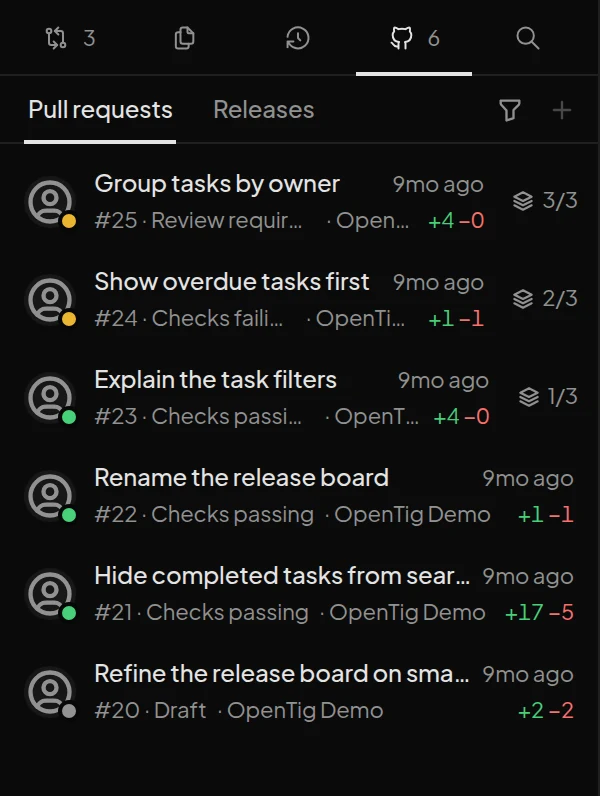
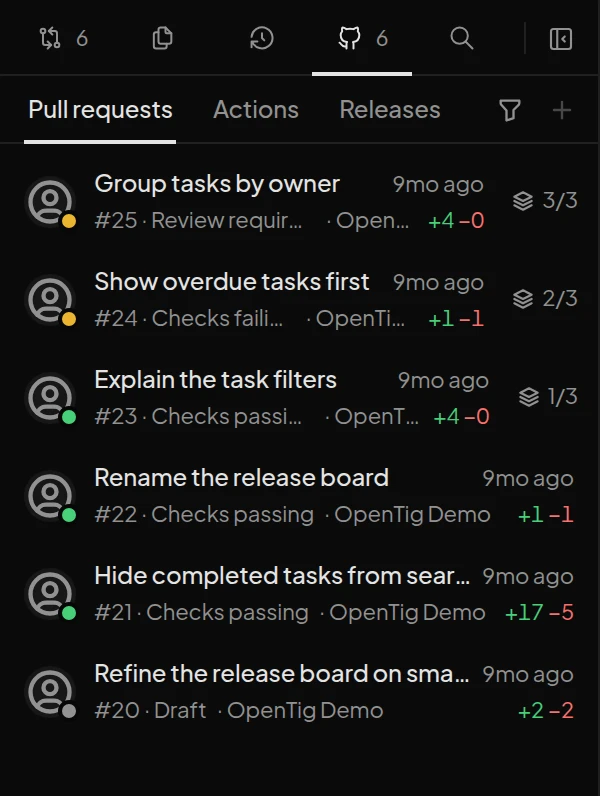
feat(website): show Actions and releases on the landing page and fix the demo's runs
The GitHub section covers merging, releases and workflow runs with new captures,
and every screenshot shows the current tabs and sidebar. Demo runs now match
their pull requests and the sample's CI workflow.

diff --git a/website/demo/actions.ts b/website/demo/actions.ts
@@ -1,92 +1,155 @@
-import type { ActionRunDetails, ActionRunJob, ActionRunPage, ActionRunSummary, RunnableWorkflowList, WorkflowTriggers } from '../../src/shared/contracts';
+import type { ActionRunDetails, ActionRunGraphNode, ActionRunJob, ActionRunPage, ActionRunSummary, RunnableWorkflowList, WorkflowTriggers } from '../../src/shared/contracts';
+import { sampleDate } from './model.ts';
+import { demoPulls } from './pulls.ts';
 
-/** Sample GitHub Actions runs for the demo, ending a little before it opens. */
-const minutesAgo = (minutes: number) => new Date(Date.UTC(2026, 0, 15, 12, 0) - minutes * 60_000).toISOString();
+/**
+ * Sample GitHub Actions runs for the demo. They follow the sample's workflow files in
+ * `.github/workflows/` and its pull requests: each PR's run has the jobs and results of its checks.
+ */
+const sampleTime = Date.parse(sampleDate);
+const minutesAgo = (minutes: number) => new Date(sampleTime - minutes * 60_000).toISOString();
+// The running run started a few minutes before the page opened, so its duration counts up from there.
+const liveTime = Date.now();
+const liveMinutesAgo = (minutes: number) => new Date(liveTime - minutes * 60_000).toISOString();
 // The sample repository's published commit, so a run's commit opens in OpenTig too.
-const sha = 'a'.repeat(40);
+const mainSha = 'a'.repeat(40);
 
 const triggers: Record<string, WorkflowTriggers> = {
   '.github/workflows/prepare-release.yml': { events: ['workflow_dispatch'], inputs: [
     { name: 'version', description: 'Version without the leading v, such as 0.5.0', required: true, default: null, type: 'string', options: [] },
-    { name: 'prerelease', description: null, required: false, default: 'false', type: 'boolean', options: [] },
+    { name: 'prerelease', description: 'Mark the draft as a pre-release', required: false, default: 'false', type: 'boolean', options: [] },
   ] },
-  '.github/workflows/ci.yml': { events: ['push', 'pull_request'], inputs: null },
+  '.github/workflows/ci.yml': { events: ['pull_request', 'push'], inputs: null },
   '.github/workflows/nightly.yml': { events: ['schedule', 'workflow_dispatch'], inputs: [
-    { name: 'suite', description: null, required: false, default: 'full', type: 'choice', options: ['full', 'smoke'] },
+    { name: 'suite', description: 'Which tests to run', required: false, default: 'full', type: 'choice', options: ['full', 'smoke'] },
   ] },
 };
+
+const workflows = [
+  { id: 1, name: 'Prepare release', path: '.github/workflows/prepare-release.yml' },
+  { id: 2, name: 'CI', path: '.github/workflows/ci.yml' },
+  { id: 3, name: 'Nightly checks', path: '.github/workflows/nightly.yml' },
+];
+
+// GitHub's branches: the default one, then the open pull requests' branches.
+const branches = ['main', ...demoPulls.list(['OPEN']).map((pr) => pr.headRefName).sort()];
 
 const runnable: RunnableWorkflowList = {
   defaultBranch: 'main',
   viewerCanWrite: true,
-  branches: ['main', 'release-board'],
-  workflows: [
-    { id: 1, name: 'Prepare release', path: '.github/workflows/prepare-release.yml', triggers: triggers['.github/workflows/prepare-release.yml']! },
-    { id: 2, name: 'CI', path: '.github/workflows/ci.yml', triggers: triggers['.github/workflows/ci.yml']! },
-    { id: 3, name: 'Nightly checks', path: '.github/workflows/nightly.yml', triggers: triggers['.github/workflows/nightly.yml']! },
-  ],
+  branches,
+  workflows: workflows.map((workflow) => ({ ...workflow, triggers: triggers[workflow.path]! })),
 };
 
-function summary(id: number, workflowId: number, workflowName: string, title: string, conclusion: string | null, started: number, minutes: number, event = 'push', branch = 'main', login = 'opentig-demo', pullRequestNumber: number | null = null): ActionRunSummary {
-  return {
-    actor: { login, avatarUrl: null }, pullRequestNumber,
-    id, number: id, attempt: 1, title, workflowId, workflowName, status: conclusion ? 'completed' : 'in_progress', conclusion, event, branch, headSha: sha,
-    url: '', createdAt: minutesAgo(started), startedAt: minutesAgo(started), updatedAt: minutesAgo(conclusion ? started - minutes : 0),
-  };
-}
-const runs: ActionRunSummary[] = [
-  summary(40, 2, 'CI', 'Hide completed tasks from search results', null, 3, 0),
-  summary(30, 1, 'Prepare release', 'Prepare release', 'success', 50, 2, 'workflow_dispatch'),
-  summary(39, 2, 'CI', 'Document the local test command', 'success', 95, 6),
-  summary(12, 3, 'Nightly checks', 'Nightly checks', 'success', 720, 9, 'schedule', 'main', 'github-actions[bot]'),
-  summary(38, 2, 'CI', 'Refine the release board on small screens', 'failure', 1500, 5, 'pull_request', 'release-board', 'opentig-demo', 21),
-  summary(29, 1, 'Prepare release', 'Prepare release', 'failure', 2900, 1, 'workflow_dispatch'),
-];
+type Result = 'success' | 'failure' | 'skipped' | null;
+type SampleRun = {
+  summary: ActionRunSummary;
+  jobs: ActionRunJob[];
+  graph: ActionRunGraphNode[];
+};
 
-function job(id: number, name: string, conclusion: string | null, started: number, minutes: number, steps: [string, string | null][]): ActionRunJob {
+/** A job's steps as GitHub names them: setup, then each step of the workflow file, then cleanup. */
+function job(id: number, name: string, result: Result, started: string | null, finished: string | null, steps: [string, Result][]): ActionRunJob {
+  const running = steps.findIndex(([, value]) => value === null);
   return {
-    id, name, status: conclusion ? 'completed' : started ? 'in_progress' : 'queued', conclusion,
-    startedAt: started ? minutesAgo(started) : null, completedAt: conclusion ? minutesAgo(started - minutes) : null, url: null, runnerName: started ? 'GitHub Actions 7' : null,
-    steps: steps.map(([stepName, stepConclusion], index) => ({
-      number: index + 1, name: stepName, status: stepConclusion ? 'completed' : index === steps.findIndex(([, value]) => !value) && started ? 'in_progress' : 'queued',
-      conclusion: stepConclusion, startedAt: stepConclusion && started ? minutesAgo(started) : null, completedAt: stepConclusion && started ? minutesAgo(started - 0.4) : null,
+    id, name, status: result ? 'completed' : started ? 'in_progress' : 'queued', conclusion: result,
+    startedAt: result === 'skipped' ? null : started, completedAt: result ? finished : null, url: null, runnerName: started && result !== 'skipped' ? 'GitHub Actions 7' : null,
+    steps: result === 'skipped' ? [] : steps.map(([stepName, stepResult], index) => ({
+      number: index + 1, name: stepName,
+      status: stepResult ? 'completed' : index === running && started ? 'in_progress' : 'queued',
+      conclusion: stepResult,
+      startedAt: stepResult || (index === running && started) ? started : null,
+      completedAt: stepResult ? finished ?? started : null,
     })),
   };
 }
-const setup: [string, string | null][] = [['Set up job', 'success'], ['Check out', 'success'], ['Install dependencies', 'success']];
-const ciJobs = (running: boolean, failing: boolean): ActionRunJob[] => [
-  job(1, 'changes', 'success', 3, 0.2, [['Set up job', 'success'], ['Decide what changed', 'success']]),
-  job(2, 'test (ubuntu)', running ? null : 'success', 2.8, 2, [...setup, ['Run tests', running ? null : 'success']]),
-  job(3, 'test (windows)', running ? null : failing ? 'failure' : 'success', 2.8, 3, [...setup, ['Run tests', running ? null : failing ? 'failure' : 'success']]),
-  job(4, 'lint', 'success', 2.8, 1, [...setup, ['Lint', 'success']]),
-  ...(running ? [] : [job(5, 'build', failing ? 'skipped' : 'success', 0.6, 1, [...setup, ['Build', failing ? 'skipped' : 'success']])]),
-];
-const ciGraph = (jobs: ActionRunJob[]) => [
-  { id: 'changes', name: 'changes', needs: [], jobIds: [1] },
-  { id: 'test', name: 'test', needs: ['changes'], jobIds: [2, 3] },
-  { id: 'lint', name: 'lint', needs: ['changes'], jobIds: [4] },
-  { id: 'build', name: 'build', needs: ['test', 'lint'], jobIds: jobs.some((item) => item.id === 5) ? [5] : [] },
-];
 
-function details(run: ActionRunSummary): ActionRunDetails {
-  const base = { ...run, path: runnable.workflows.find((workflow) => workflow.id === run.workflowId)?.path ?? null, jobsTruncated: false, graphSource: 'workflow' as const };
-  if (run.workflowId === 2) {
-    const jobs = ciJobs(run.status !== 'completed', run.conclusion === 'failure');
-    return { ...base, jobs, graph: ciGraph(jobs) };
-  }
-  const jobs = [job(6, run.workflowName === 'Prepare release' ? 'prepare' : 'checks', run.conclusion, 50, 2, [...setup, ['Run', run.conclusion]])];
-  return { ...base, jobs, graph: [{ id: 'main', name: jobs[0]!.name, needs: [], jobIds: [6] }] };
+const node = ['Run actions/checkout@v4', 'Run actions/setup-node@v4', 'Run npm ci'];
+/** Steps of a CI job: setup succeeds, and its last step has the job's result, or is still running. */
+const ciSteps = (last: string, result: Result): [string, Result][] =>
+  [['Set up job', 'success'], ...node.map((step): [string, Result] => [step, 'success']), [last, result], ...(result ? [['Complete job', 'success'] as [string, Result]] : [])];
+
+/** `.github/workflows/ci.yml`: test and lint side by side; preview needs test and only runs on pushes to main. */
+function ciRun(run: ActionRunSummary, at: (minutes: number) => string, results: { test: Result; lint: Result; preview: Result | 'waiting' }): SampleRun {
+  const ids = run.id * 10;
+  const jobs = [
+    job(ids + 1, 'test', results.test, at(4), results.test ? at(1) : null, ciSteps('Run npm test', results.test)),
+    job(ids + 2, 'lint', results.lint, at(4), results.lint ? at(2.5) : null, ciSteps('Run npm run lint', results.lint)),
+    ...(results.preview === 'waiting' ? [] : [job(ids + 3, 'preview', results.preview, at(1), at(0.5), [
+      ['Set up job', 'success'], ['Run actions/checkout@v4', 'success'], ['Run actions/upload-artifact@v4', 'success'], ['Complete job', 'success'],
+    ])]),
+  ];
+  return {
+    summary: run, jobs,
+    graph: [
+      { id: 'test', name: 'test', needs: [], jobIds: [ids + 1] },
+      { id: 'lint', name: 'lint', needs: [], jobIds: [ids + 2] },
+      { id: 'preview', name: 'preview', needs: ['test'], jobIds: results.preview === 'waiting' ? [] : [ids + 3] },
+    ],
+  };
 }
+
+/** A workflow with one job, such as `prepare` in prepare-release.yml or `checks` in nightly.yml. */
+function singleJobRun(run: ActionRunSummary, name: string, steps: string[], minutes: number): SampleRun {
+  const started = run.startedAt!;
+  const finished = new Date(Date.parse(started) + minutes * 60_000).toISOString();
+  const failing = run.conclusion === 'failure';
+  const id = run.id * 10 + 1;
+  return {
+    summary: run,
+    jobs: [job(id, name, failing ? 'failure' : 'success', started, finished, [
+      ['Set up job', 'success'],
+      ...steps.map((step, index): [string, Result] => [step, failing && index === steps.length - 1 ? 'failure' : 'success']),
+      ['Complete job', 'success'],
+    ])],
+    graph: [{ id: name, name, needs: [], jobIds: [id] }],
+  };
+}
+
+function summary(input: { id: number; workflowId: number; title: string; conclusion: Result; createdAt: string; updatedAt: string; event: string; branch: string; login?: string; pullRequestNumber?: number }): ActionRunSummary {
+  const workflow = workflows.find((item) => item.id === input.workflowId)!;
+  const pull = input.pullRequestNumber ? demoPulls.get(input.pullRequestNumber) : null;
+  return {
+    id: input.id, number: input.id, attempt: 1, title: input.title, workflowId: workflow.id, workflowName: workflow.name,
+    status: input.conclusion ? 'completed' : 'in_progress', conclusion: input.conclusion, event: input.event, branch: input.branch,
+    headSha: pull?.headRefOid ?? mainSha, url: '', createdAt: input.createdAt, startedAt: input.createdAt, updatedAt: input.updatedAt,
+    actor: { login: input.login ?? 'opentig-demo', avatarUrl: null }, pullRequestNumber: input.pullRequestNumber ?? null,
+  };
+}
+
+/** A CI run for a sample pull request, on its branch and head commit. */
+function pullRequestRun(id: number, number: number, conclusion: Result, at: (minutes: number) => string) {
+  const pull = demoPulls.get(number);
+  return summary({ id, workflowId: 2, title: pull.title, conclusion, createdAt: at(4), updatedAt: at(conclusion ? 0.5 : 0), event: 'pull_request', branch: pull.headRefName, pullRequestNumber: number });
+}
+const at = (offset: number) => (minutes: number) => minutesAgo(offset + minutes);
+
+const releaseSteps = ['Check out', 'Install dependencies', 'Update the version', 'Create the draft release'];
+const samples: SampleRun[] = [
+  // #25's checks are still running: test is pending and preview waits for it.
+  ciRun(pullRequestRun(44, 25, null, liveMinutesAgo), liveMinutesAgo, { test: null, lint: 'success', preview: 'waiting' }),
+  singleJobRun(summary({ id: 30, workflowId: 1, title: 'Prepare release', conclusion: 'success', createdAt: minutesAgo(50), updatedAt: minutesAgo(48), event: 'workflow_dispatch', branch: 'main' }), 'prepare', releaseSteps, 2),
+  // #21's checks passed; preview is skipped on pull requests.
+  ciRun(pullRequestRun(43, 21, 'success', at(90)), at(90), { test: 'success', lint: 'success', preview: 'skipped' }),
+  // The push to main that merged #19.
+  ciRun(summary({ id: 42, workflowId: 2, title: 'Document the local test command (#19)', conclusion: 'success', createdAt: at(180)(4), updatedAt: at(180)(0.5), event: 'push', branch: 'main' }), at(180), { test: 'success', lint: 'success', preview: 'success' }),
+  singleJobRun(summary({ id: 12, workflowId: 3, title: 'Nightly checks', conclusion: 'success', createdAt: minutesAgo(720), updatedAt: minutesAgo(711), event: 'schedule', branch: 'main', login: 'github-actions[bot]' }), 'checks', ['Check out', 'Install dependencies', 'Run the full suite'], 9),
+  // #24's test fails, so preview never runs.
+  ciRun(pullRequestRun(41, 24, 'failure', at(1500)), at(1500), { test: 'failure', lint: 'success', preview: 'skipped' }),
+  singleJobRun(summary({ id: 29, workflowId: 1, title: 'Prepare release', conclusion: 'failure', createdAt: minutesAgo(2900), updatedAt: minutesAgo(2899), event: 'workflow_dispatch', branch: 'main' }), 'prepare', releaseSteps, 1),
+];
 
 export const demoActions = {
   runnable() { return structuredClone(runnable); },
   triggers(path: string): WorkflowTriggers | null { return structuredClone(triggers[path] ?? null); },
   list(workflowId: number | null): ActionRunPage {
-    return { runs: structuredClone(runs.filter((run) => workflowId === null || run.workflowId === workflowId)), hasMore: false };
+    const runs = samples.map((sample) => sample.summary).filter((run) => workflowId === null || run.workflowId === workflowId);
+    return { runs: structuredClone(runs), hasMore: false };
   },
   get(runId: number): ActionRunDetails {
-    const run = runs.find((item) => item.id === runId);
-    if (!run) throw new Error('Choose a run from the sample repository.');
-    return structuredClone(details(run));
+    const sample = samples.find((item) => item.summary.id === runId);
+    if (!sample) throw new Error('Choose a run from the sample repository.');
+    const path = workflows.find((workflow) => workflow.id === sample.summary.workflowId)?.path ?? null;
+    return structuredClone({ ...sample.summary, path, jobs: sample.jobs, jobsTruncated: false, graph: sample.graph, graphSource: 'workflow' as const });
   },
 };

diff --git a/website/demo/pulls.ts b/website/demo/pulls.ts
@@ -24,7 +24,7 @@ const comment = (id: string, author: PullRequestParticipant, body: string): Pull
 const review = (id: string, author: PullRequestParticipant, verdict: NonNullable<PullRequestConversationEntry['verdict']>, body = ''): PullRequestConversationEntry => ({ id, kind: 'review', author, body, createdAt: sampleDate, url: null, verdict, minimized: false, updatedAt: sampleDate, edited: false, canEdit: false, canDelete: false });
 const conversations: Record<number, PullRequestConversationEntry[]> = {
   21: [
-    comment('c1', bot, 'Preview ready. All sample tests passed on this commit.'),
+    comment('c1', bot, 'All sample checks passed on this commit. The board preview is built once this is merged.'),
     review('r1', maya, 'APPROVED', 'Reads well. Completed tasks staying hidden by default is what we discussed.'),
   ],
   24: [
@@ -84,7 +84,7 @@ const samples = [
   sample(24, 'Show overdue tasks first', 'OPEN', 'feature/overdue-first',
     '## What changes\n\nMove overdue work to the top of the release board.\n', [
       { title: 'Lead the board with overdue work', changes: [{ path: 'index.html', before: html, after: html.replace('A small team. A big launch.', 'Overdue work comes first.') }] },
-    ], { mergeState: 'BLOCKED', review: 'APPROVED', checks: [check('test', 'fail', true), check('lint', 'pass'), check('preview', 'action-required')], base: 'docs/task-filters' }),
+    ], { mergeState: 'BLOCKED', review: 'APPROVED', checks: [check('test', 'fail', true), check('lint', 'pass'), check('preview', 'skipped')], base: 'docs/task-filters' }),
   sample(23, 'Explain the task filters', 'OPEN', 'docs/task-filters',
     '## What changes\n\nDocument the options for filtering tasks.\n', [
       { title: 'Document the task filters', changes: [{ path: 'README.md', before: readme, after: `${readme}\n## Filters\n\nSearch by title, and include completed tasks when you need them.\n` }] },

diff --git a/website/demo/sample-files.ts b/website/demo/sample-files.ts
@@ -186,8 +186,10 @@ jobs:
       - run: npm ci
       - run: npm run lint
 
+  # Publishes the board from main; pull requests skip it.
   preview:
     needs: test
+    if: github.event_name == 'push'
     runs-on: ubuntu-latest
     steps:
       - uses: actions/checkout@v4
@@ -195,6 +197,65 @@ jobs:
         with:
           name: board-preview
           path: index.html
+`;
+
+export const sampleReleaseWorkflow = `name: Prepare release
+
+on:
+  workflow_dispatch:
+    inputs:
+      version:
+        description: Version without the leading v, such as 0.5.0
+        required: true
+        type: string
+      prerelease:
+        description: Mark the draft as a pre-release
+        type: boolean
+        default: false
+
+jobs:
+  prepare:
+    runs-on: ubuntu-latest
+    permissions:
+      contents: write
+    steps:
+      - name: Check out
+        uses: actions/checkout@v4
+      - name: Install dependencies
+        run: npm ci
+      - name: Update the version
+        run: npm version "\${{ inputs.version }}" --no-git-tag-version
+      - name: Create the draft release
+        env:
+          GH_TOKEN: \${{ github.token }}
+        run: >
+          gh release create "v\${{ inputs.version }}" --draft --generate-notes
+          \${{ inputs.prerelease && '--prerelease' || '' }}
+`;
+
+export const sampleNightlyWorkflow = `name: Nightly checks
+
+on:
+  schedule:
+    - cron: '0 3 * * *'
+  workflow_dispatch:
+    inputs:
+      suite:
+        description: Which tests to run
+        type: choice
+        default: full
+        options: [full, smoke]
+
+jobs:
+  checks:
+    runs-on: ubuntu-latest
+    steps:
+      - name: Check out
+        uses: actions/checkout@v4
+      - name: Install dependencies
+        run: npm ci
+      - name: Run the \${{ inputs.suite || 'full' }} suite
+        run: npm test
 `;
 
 export const samplePackage = `{

diff --git a/website/demo/model.ts b/website/demo/model.ts
@@ -1,5 +1,5 @@
 import { sampleHtml } from "./sample-html.ts";
-import { sampleLogo, samplePackage, sampleProgress, sampleReadme, sampleTasks, sampleTsconfig, sampleTypes, sampleWorkflow } from "./sample-files.ts";
+import { sampleLogo, sampleNightlyWorkflow, samplePackage, sampleProgress, sampleReadme, sampleReleaseWorkflow, sampleTasks, sampleTsconfig, sampleTypes, sampleWorkflow } from "./sample-files.ts";
 import { createTwoFilesPatch, diffLines } from "diff";
 import { findSearchMatches, type SearchReplaceRequest } from "../../src/shared/search.ts";
 import type {
@@ -20,6 +20,8 @@ export const repository = {
 export const sampleDate = "2026-01-15T12:00:00.000Z";
 export const initialFiles: Record<string, string> = {
   ".github/workflows/ci.yml": sampleWorkflow,
+  ".github/workflows/nightly.yml": sampleNightlyWorkflow,
+  ".github/workflows/prepare-release.yml": sampleReleaseWorkflow,
   "assets/logo.svg": sampleLogo,
   "data/tasks.json": sampleTasks,
   "index.html": sampleHtml,
